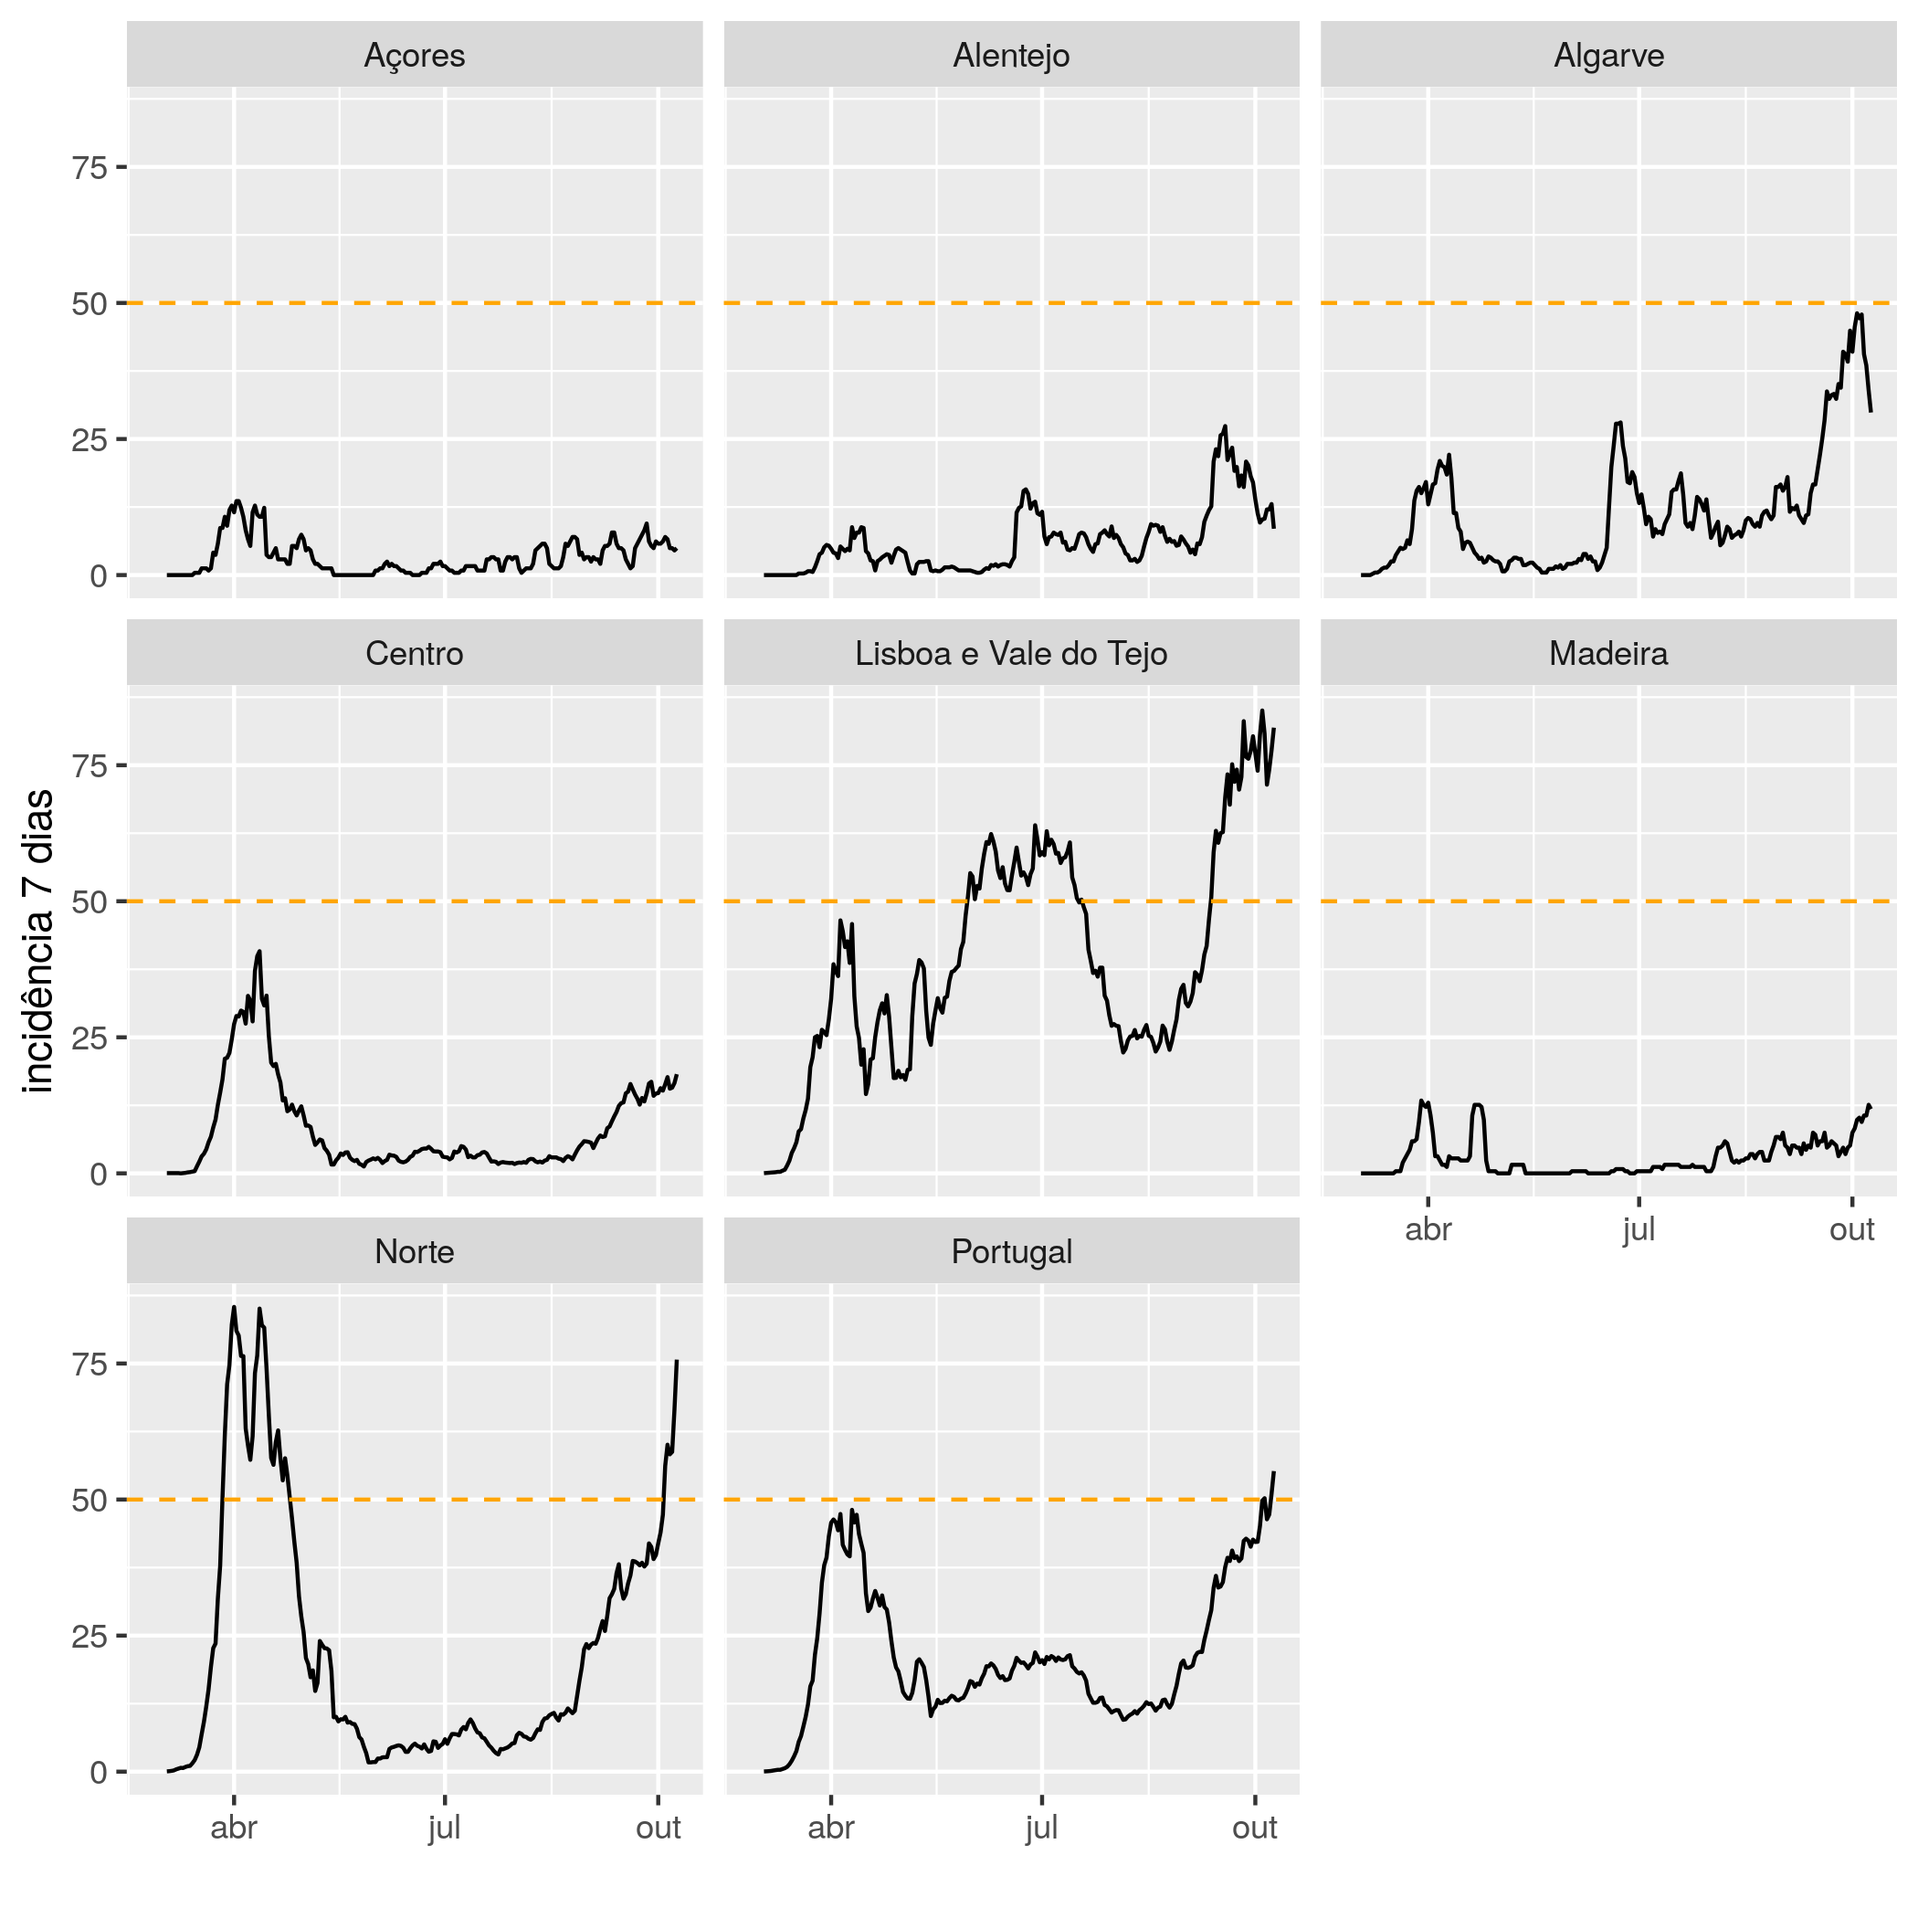
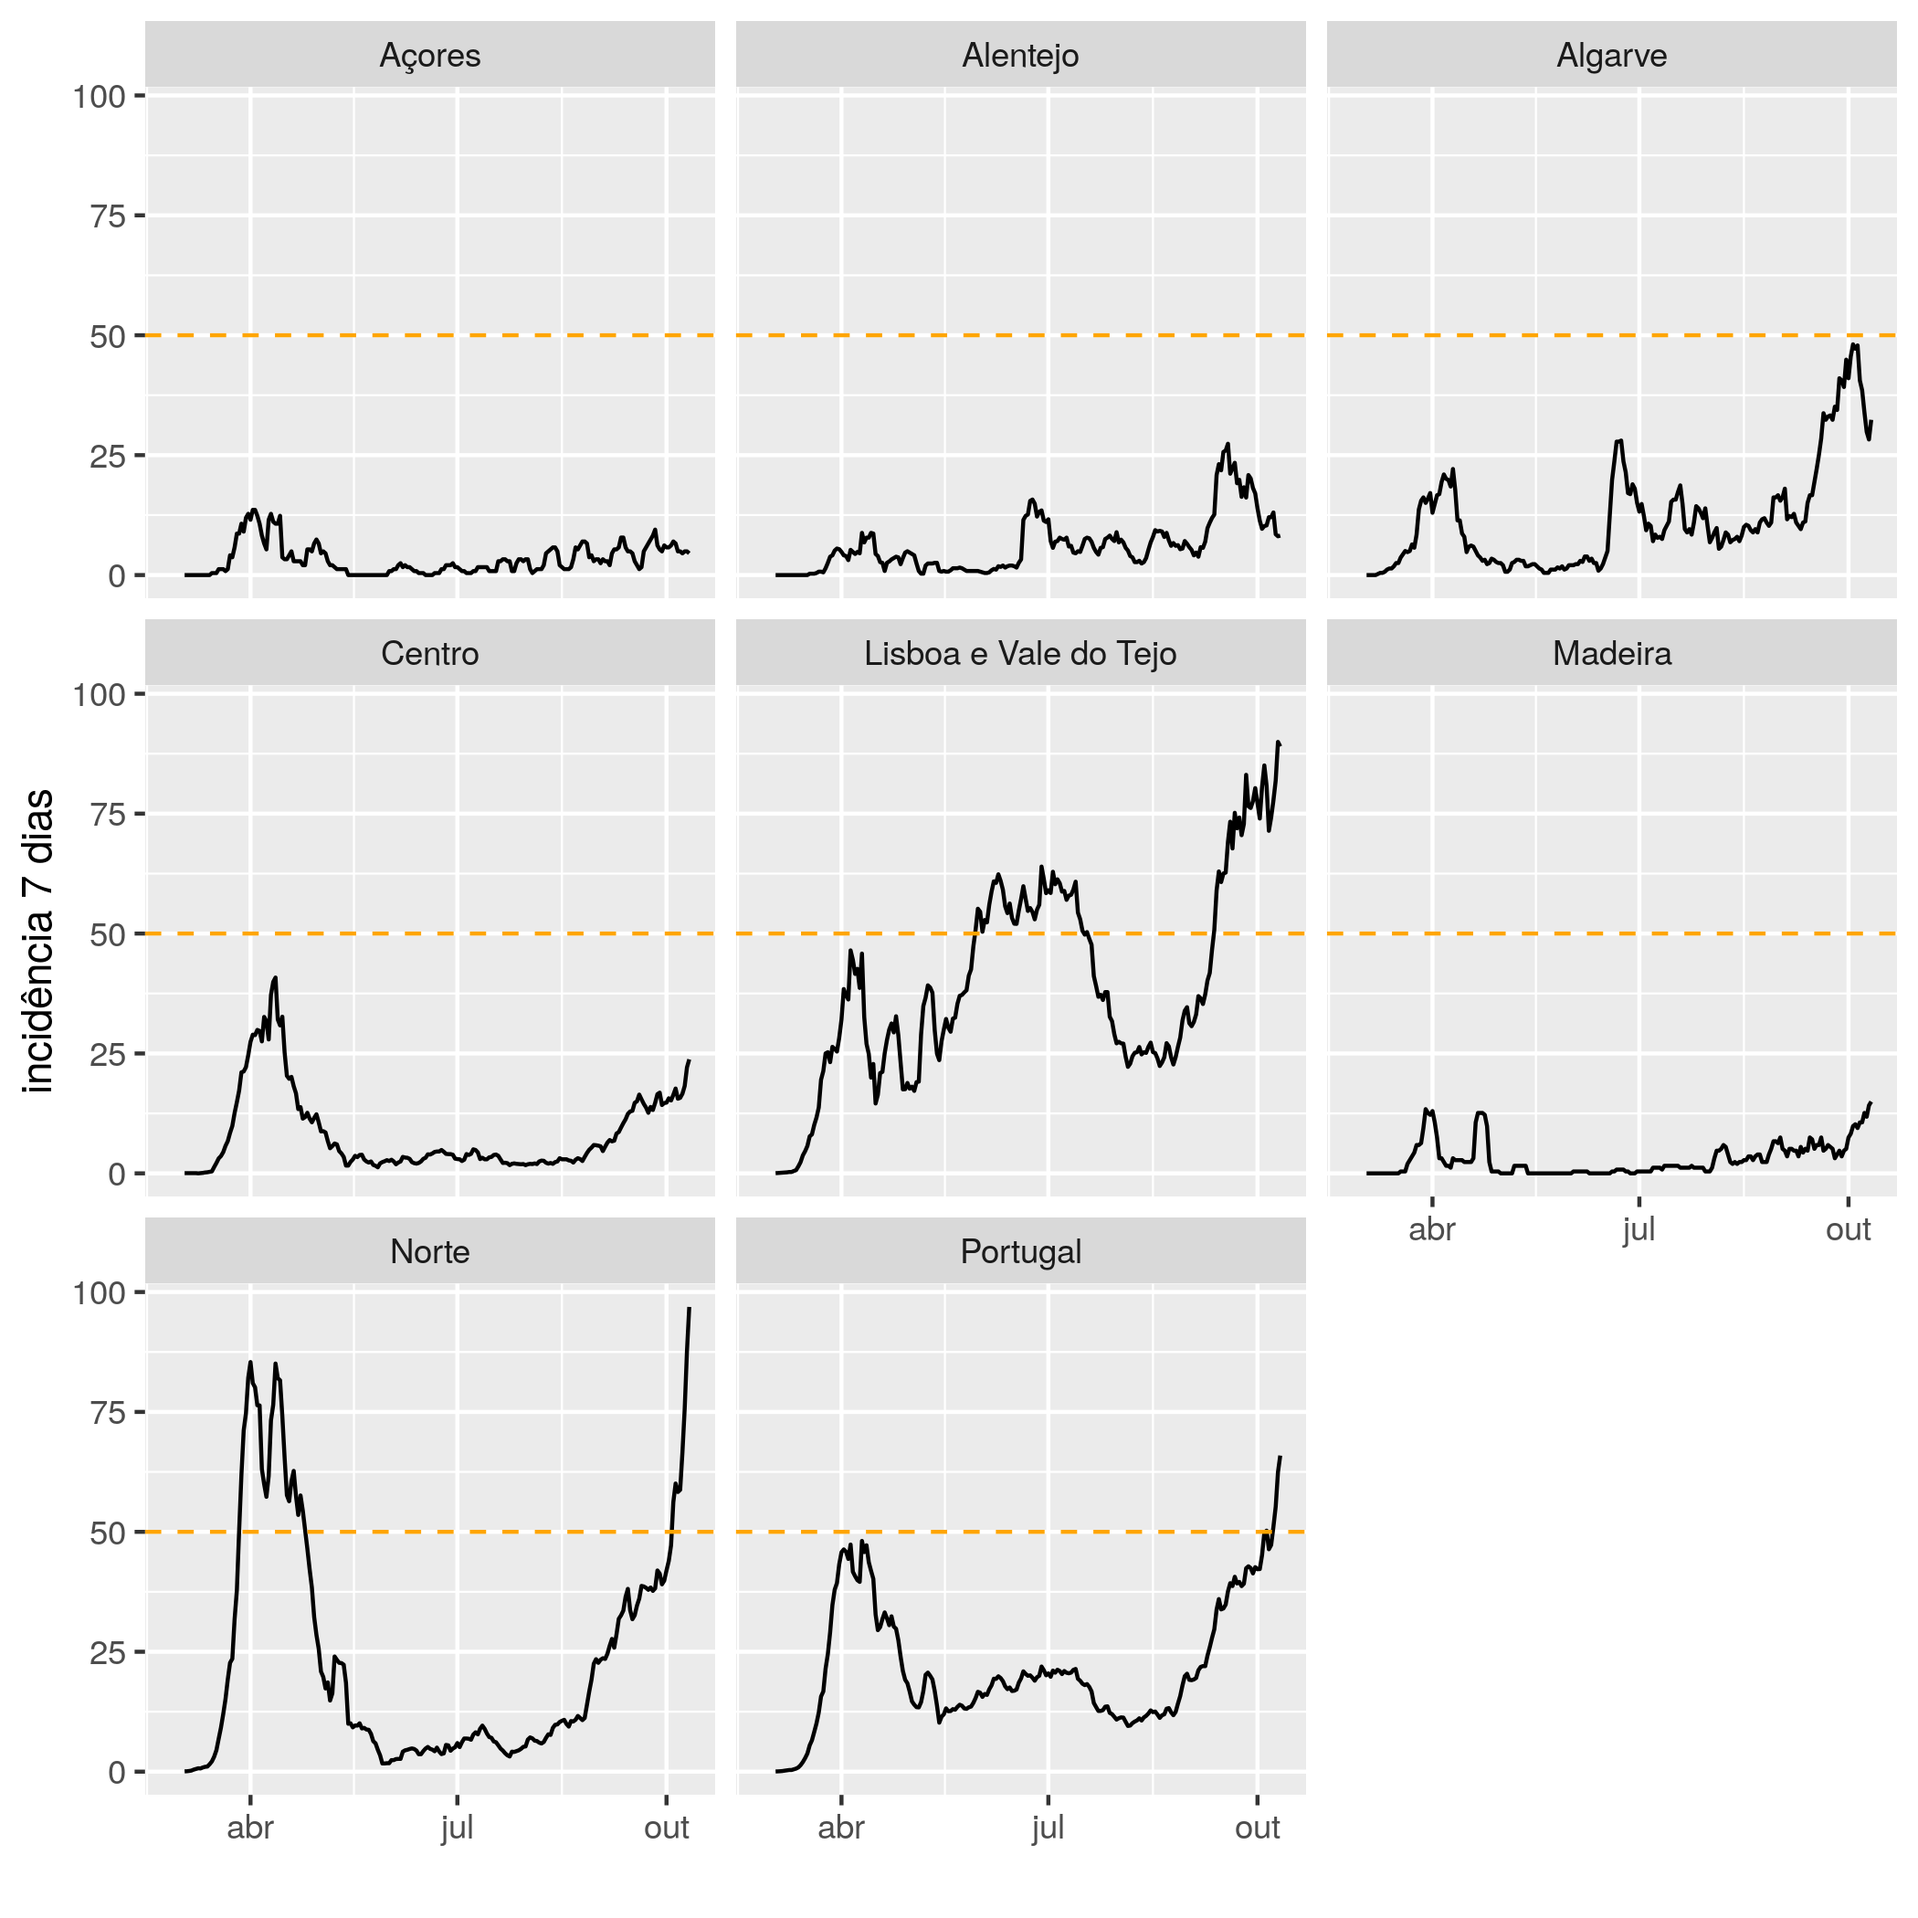
dados fim de semana

diff --git a/README.md b/README.md
@@ -1,7 +1,7 @@
 # Contexto
 A incidência por 100000 habitantes em 7 dias é o valor de referência para decretar regiões de risco pelas autoridades de saúde alemãs (valor charneira é 50, ie LVT já é região de risco). Gráficos atualizados diariamente. Para ajudar quem quer viajar para a Alemanha ou vir passar férias a Portugal.
 
-Dados mais recentes de 2020-10-09.
+Dados mais recentes de 2020-10-11.
 
 # Incidência por 100000 habitantes em 7 dias
 ## Últimos 30 dias
